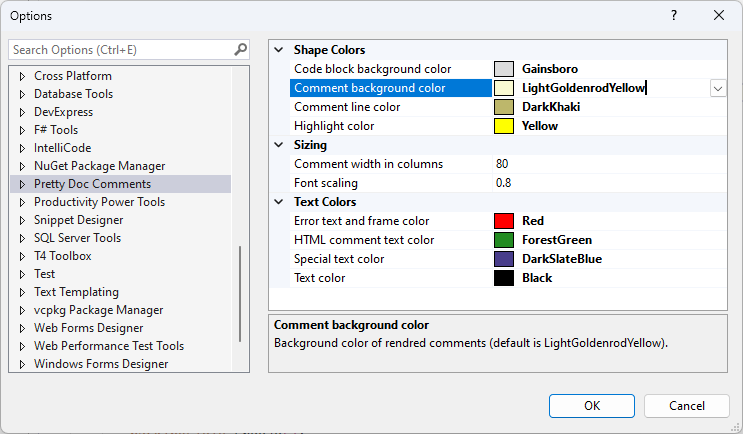
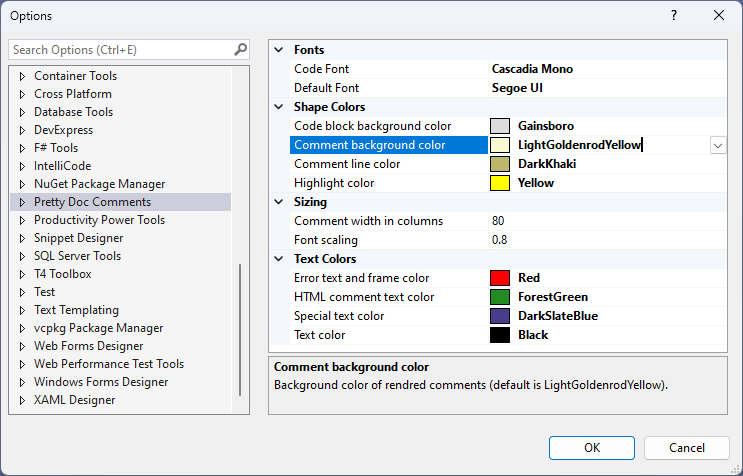
Added Font selection to Options page.

diff --git a/PrettyDocComments/CustomOptions/GeneralOptions.cs b/PrettyDocComments/CustomOptions/GeneralOptions.cs
@@ -1,66 +1,86 @@
 using System.ComponentModel;
+using System.Drawing.Design;
+using System.Windows.Media;
+using PrettyDocComments.CustomOptions.Design;
 
 namespace PrettyDocComments.CustomOptions;
 
 internal class GeneralOptions : BaseOptionModel<GeneralOptions>
 {
-    [Category("Sizing")]
+    private const string TestColorsCategory = "Text Colors";
+    private const string SizingCategory = "Sizing";
+    private const string ShapeColorsCategory = "Shape Colors";
+    private const string FontsCategory = "Fonts";
+
+    [Category(SizingCategory)]
     [DisplayName("Font scaling")]
     [Description("By how much the editor font size is multiplied to get the comment base font size (default is 0.8).")]
     [DefaultValue(0.8)]
     public double FontScaling { get; set; } = 0.8;
 
-    [Category("Sizing")]
+    [Category(SizingCategory)]
     [DisplayName("Comment width in columns")]
     [Description("Width of the rendered doc comment in columns (default is 80).")]
     [DefaultValue(80)]
     public int CommentWidthInColumns { get; set; } = 80;
 
-    [Category("Shape Colors")]
+    [Category(ShapeColorsCategory)]
     [DisplayName("Comment background color")]
     [Description("Background color of rendred comments (default is LightGoldenrodYellow).")]
     [TypeConverter(typeof(System.Drawing.ColorConverter))]
     public System.Drawing.Color CommentBackColor { get; set; } = System.Drawing.Color.LightGoldenrodYellow;
 
-    [Category("Shape Colors")]
+    [Category(ShapeColorsCategory)]
     [DisplayName("Comment line color")]
     [Description("Color of comment frame and separator lines (default is DarkKhaki).")]
     [TypeConverter(typeof(System.Drawing.ColorConverter))]
     public System.Drawing.Color CommentLineColor { get; set; } = System.Drawing.Color.DarkKhaki;
 
-    [Category("Shape Colors")]
+    [Category(ShapeColorsCategory)]
     [DisplayName("Code block background color")]
     [Description("Background color of <code>blocks</code> (default is Gainsboro).")]
     [TypeConverter(typeof(System.Drawing.ColorConverter))]
     public System.Drawing.Color CodeBlockBackColor { get; set; } = System.Drawing.Color.Gainsboro;
 
-    [Category("Shape Colors")]
+    [Category(ShapeColorsCategory)]
     [DisplayName("Highlight color")]
     [Description("Default background color of <mark>blocks</mark> (default is Yellow).")]
     [TypeConverter(typeof(System.Drawing.ColorConverter))]
     public System.Drawing.Color HighlightColor { get; set; } = System.Drawing.Color.Yellow;
 
-    [Category("Text Colors")]
+    [Category(TestColorsCategory)]
     [DisplayName("Text color")]
     [Description("Color of normal text (default is Black).")]
     [TypeConverter(typeof(System.Drawing.ColorConverter))]
     public System.Drawing.Color TextColor { get; set; } = System.Drawing.Color.Black;
 
-    [Category("Text Colors")]
+    [Category(TestColorsCategory)]
     [DisplayName("Special text color")]
     [Description("Color of special text, e.g. links and references (default is DarkSlateBlue).")]
     [TypeConverter(typeof(System.Drawing.ColorConverter))]
     public System.Drawing.Color SpecialTextColor { get; set; } = System.Drawing.Color.DarkSlateBlue;
 
-    [Category("Text Colors")]
+    [Category(TestColorsCategory)]
     [DisplayName("HTML comment text color")]
     [Description("Color of HTML <!-- comment --> text (default is ForestGreen).")]
     [TypeConverter(typeof(System.Drawing.ColorConverter))]
     public System.Drawing.Color HtmlCommentTextColor { get; set; } = System.Drawing.Color.ForestGreen;
 
-    [Category("Text Colors")]
+    [Category(TestColorsCategory)]
     [DisplayName("Error text and frame color")]
     [Description("Color used to display XML parsing errors (default is Red).")]
     [TypeConverter(typeof(System.Drawing.ColorConverter))]
     public System.Drawing.Color ErrorTextColor { get; set; } = System.Drawing.Color.Red;
+
+    [Category(FontsCategory)]
+    [DisplayName("Default Font")]
+    [Description("Font used to display the comment text (default is Segoe UI).")]
+    [Editor(typeof(FontFamilyTypeEditor), typeof(UITypeEditor))]
+    public string TextFont { get; set; } = "Segoe UI";
+
+    [Category(FontsCategory)]
+    [DisplayName("Code Font")]
+    [Description("Font used to display code (default is Cascadia Mono).")]
+    [Editor(typeof(FontFamilyTypeEditor), typeof(UITypeEditor))]
+    public string CodeFont { get; set; } = "Cascadia Mono";
 }

diff --git a/PrettyDocComments/Helpers/Options.cs b/PrettyDocComments/Helpers/Options.cs
@@ -9,9 +9,38 @@ internal static class Options
 {
     public static event Action OptionsChanged;
 
-    public static readonly Typeface NormalTypeFace;
-    public static readonly Typeface CaptionsTypeFace;
-    public static readonly Typeface CodeTypeFace;
+    private static readonly FontFamily _fallbackTextFontFamily = new FontFamily("Arial");
+    private static readonly FontFamily _fallbackCodeFontFamily = new FontFamily("Consolas");
+
+    private static Typeface _normalTypeFace;
+    public static Typeface NormalTypeFace
+    {
+        get {
+            _normalTypeFace ??= new Typeface(new FontFamily(GeneralOptions.Instance.TextFont),
+                FontStyles.Normal, FontWeights.Normal, FontStretches.Normal, _fallbackTextFontFamily);
+            return _normalTypeFace;
+        }
+    }
+
+    private static Typeface _captionsTypeFace;
+    public static Typeface CaptionsTypeFace
+    {
+        get {
+            _captionsTypeFace ??= new Typeface(new FontFamily(GeneralOptions.Instance.TextFont),
+                FontStyles.Normal, FontWeights.Bold, FontStretches.Normal, _fallbackTextFontFamily);
+            return _captionsTypeFace;
+        }
+    }
+
+    private static Typeface _codeTypeFace;
+    public static Typeface CodeTypeFace
+    {
+        get {
+            _codeTypeFace ??= new Typeface(new FontFamily(GeneralOptions.Instance.CodeFont),
+                FontStyles.Normal, FontWeights.Normal, FontStretches.Normal, _fallbackCodeFontFamily);
+            return _codeTypeFace;
+        }
+    }
 
     private static Brush _commentBackground;
     public static Brush CommentBackground =>
@@ -70,23 +99,12 @@ internal static class Options
     public static double GetNormalEmSize(IWpfTextView view) =>
         view.FormattedLineSource.DefaultTextProperties.FontRenderingEmSize * FontScaling;
 
-    static Options()
-    {
-        var textFontFamily = new FontFamily("Segoe UI");
-        var fallbackTextFontFamily = new FontFamily("Arial");
-
-        NormalTypeFace = new Typeface(textFontFamily,
-            FontStyles.Normal, FontWeights.Normal, FontStretches.Normal, fallbackTextFontFamily);
-
-        CaptionsTypeFace = new Typeface(textFontFamily,
-            FontStyles.Normal, FontWeights.Bold, FontStretches.Normal, fallbackTextFontFamily);
-
-        CodeTypeFace = new Typeface(new FontFamily("Cascadia Mono"),
-            FontStyles.Normal, FontWeights.Normal, FontStretches.Normal, new FontFamily("Consolas"));
-    }
-
     public static void Refresh()
     {
+        _captionsTypeFace = null;
+        _codeTypeFace = null;
+        _normalTypeFace = null;
+
         _commentBackground = null;
         _codeBackground = null;
         _defaultTextBrush = null;

diff --git a/PrettyDocComments/CustomOptions/Design/FontFamilyListBox.cs b/PrettyDocComments/CustomOptions/Design/FontFamilyListBox.cs
@@ -1,0 +1,44 @@
+using System.Drawing;
+using System.Windows.Forms;
+
+namespace PrettyDocComments.CustomOptions.Design;
+
+internal class FontFamilyListBox : ListBox
+{
+    public FontFamilyListBox()
+    {
+        IntegralHeight = false;
+        SelectionMode = SelectionMode.One;
+        ItemHeight = Math.Max(ItemHeight, 18);
+        Height = 16 * ItemHeight + 3;
+        DrawMode = DrawMode.OwnerDrawFixed;
+    }
+
+    public void Fill(string selectedValue)
+    {
+        foreach (var family in FontFamily.Families) {
+            int index = Items.Add(family.Name);
+            if (family.Name == selectedValue) {
+                SelectedIndex = index;
+            }
+        }
+    }
+
+    protected override void OnDrawItem(DrawItemEventArgs e)
+    {
+        const string ExampleText = "Abc 123";
+
+        string fontFamilyName = (string)Items[e.Index];
+        using var itemFont = new Font(fontFamilyName, 12);
+        using var brush = new SolidBrush(e.ForeColor);
+        e.DrawBackground();
+        e.Graphics.DrawString(itemFont.Name, Font, brush, e.Bounds.X, e.Bounds.Y);
+
+        float textWidth = e.Graphics.MeasureString(itemFont.Name, Font).Width;
+        float exampleWidth = e.Graphics.MeasureString(ExampleText, itemFont).Width;
+        if (textWidth + exampleWidth + 3 < e.Bounds.Width) {
+            e.Graphics.DrawString(ExampleText, itemFont, brush, e.Bounds.Right - exampleWidth - 1, e.Bounds.Y);
+        }
+        e.DrawFocusRectangle();
+    }
+}

diff --git a/PrettyDocComments/CustomOptions/Design/FontFamilyTypeEditor.cs b/PrettyDocComments/CustomOptions/Design/FontFamilyTypeEditor.cs
@@ -1,0 +1,31 @@
+using System.ComponentModel;
+using System.Drawing.Design;
+using System.Windows.Forms.Design;
+
+namespace PrettyDocComments.CustomOptions.Design;
+
+internal class FontFamilyTypeEditor : UITypeEditor
+{
+    private IWindowsFormsEditorService _editorService;
+
+    public override UITypeEditorEditStyle GetEditStyle(ITypeDescriptorContext context)
+    {
+        return UITypeEditorEditStyle.DropDown;
+    }
+
+    public override object EditValue(ITypeDescriptorContext context, IServiceProvider provider, object value)
+    {
+        _editorService = (IWindowsFormsEditorService)provider.GetService(typeof(IWindowsFormsEditorService));
+
+        var lb = new FontFamilyListBox();
+        lb.SelectedValueChanged += OnListBoxSelectedValueChanged;
+        lb.Fill(value as string);
+        _editorService.DropDownControl(lb);
+        return lb.SelectedItem ?? value;
+    }
+
+    private void OnListBoxSelectedValueChanged(object sender, EventArgs e)
+    {
+        _editorService.CloseDropDown();
+    }
+}
